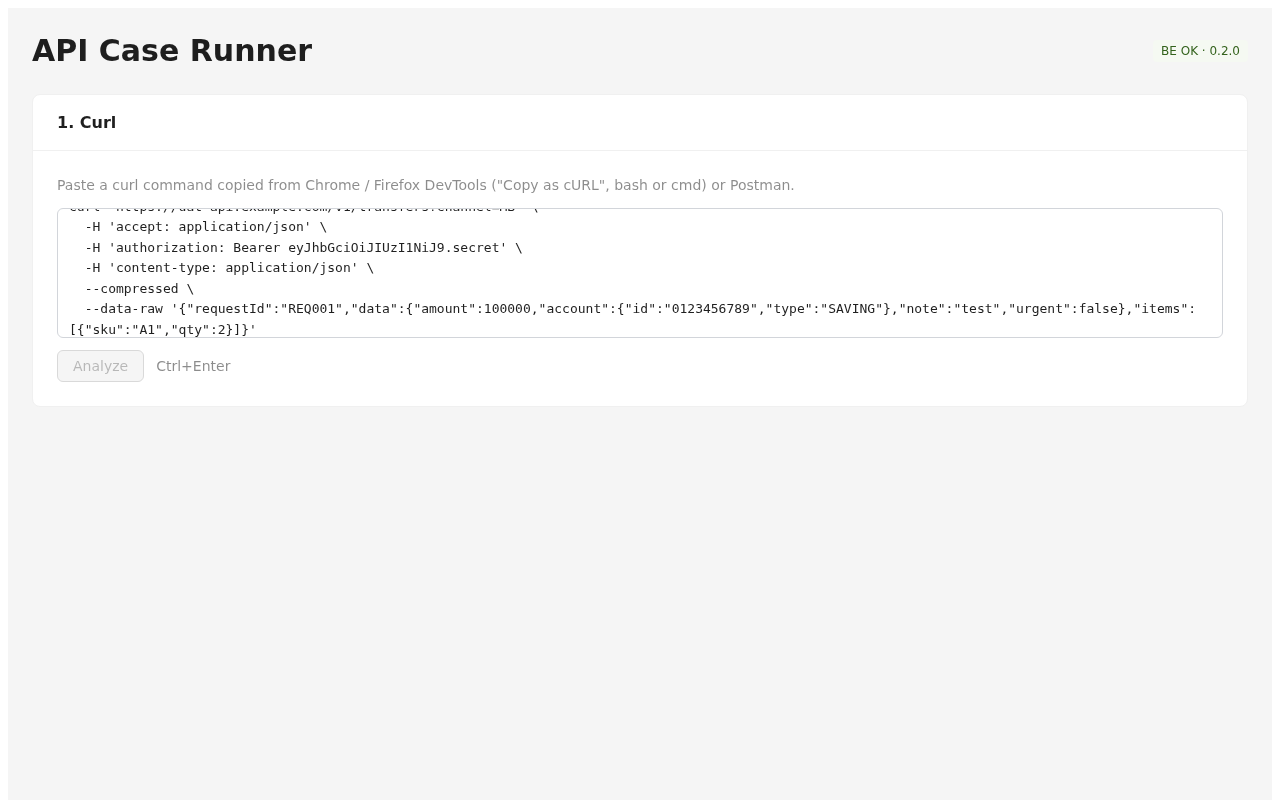
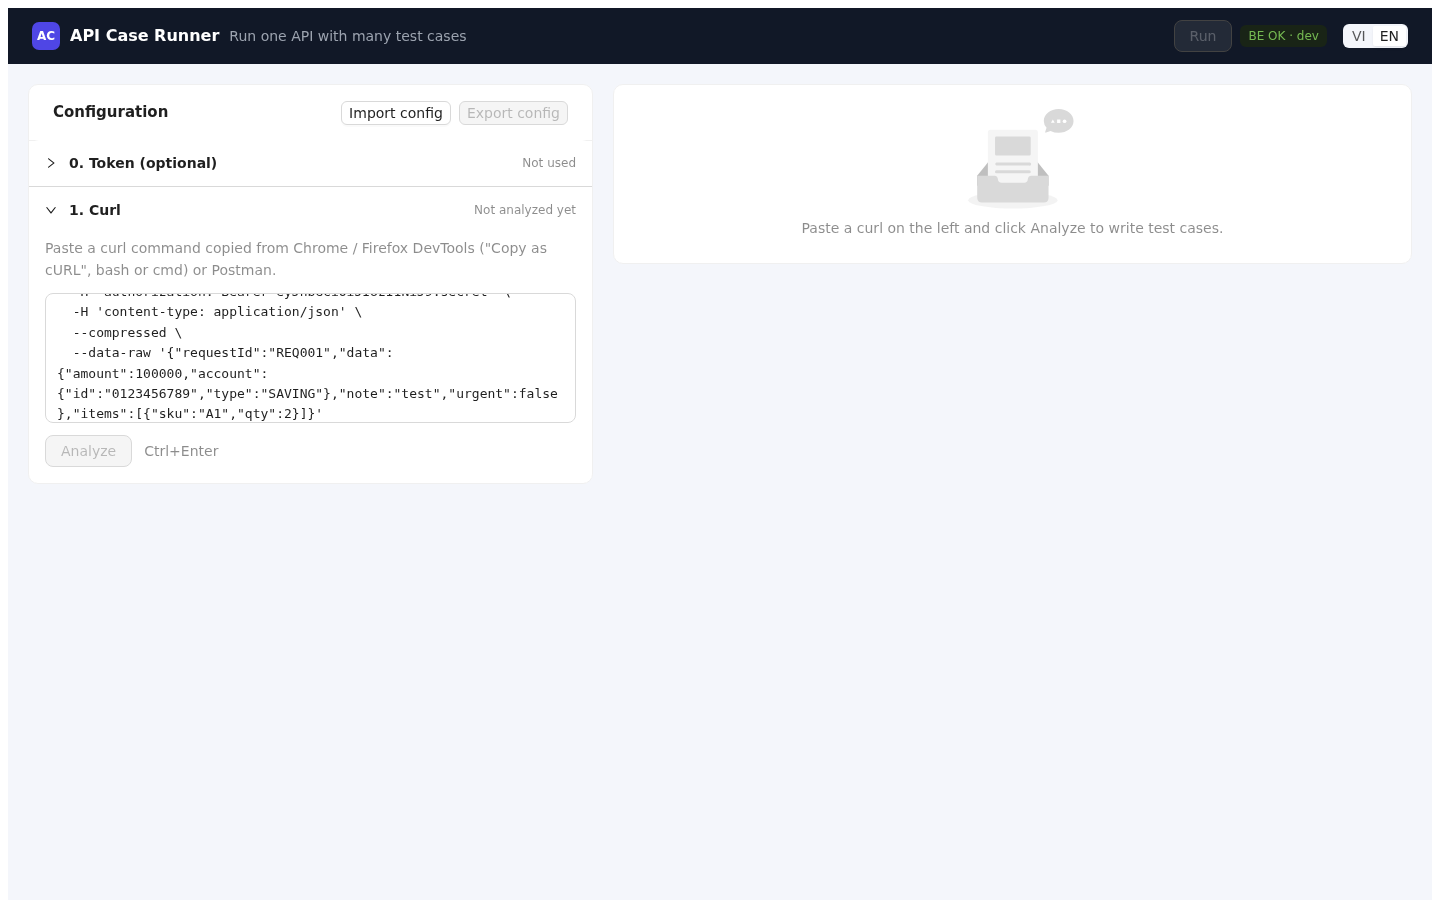
docs: describe the two-column layout and retake the screenshots

diff --git a/docs/brd/BRD-001.vi.md b/docs/brd/BRD-001.vi.md
@@ -17,7 +17,7 @@
 
 | Phiên bản | Ngày | Thay đổi |
 |---|---|---|
-| 0.8 | 2026-10-24 | Đã làm xong Step 4–9 (kế hoạch `PLAN-2026-10-24-no1-run-cases`): bảng case, API chạy run kèm SSE, phần kết quả, mock API. Expect chỉ khớp HTTP status khi bằng đúng nguyên mã, và không tìm trong các header kỹ thuật như `Date` (D14). Thêm mã BLOCKED `UNKNOWN_VARIABLE` (§9); Inject token mà không có capture tên `token` → 400 (§11.3); ô object/array (§9); mã HTTP `RUN_NOT_FOUND`, `TOO_MANY_RUNS` (§15.1); reason hiển thị mã đúng như đã gõ (§12); giao diện như đã làm (§16). |
+| 0.8 | 2026-10-24 | Đã làm xong Step 4–9 (kế hoạch `PLAN-2026-10-24-no1-run-cases`): bảng case, API chạy run kèm SSE, phần kết quả, mock API. Expect chỉ khớp HTTP status khi bằng đúng nguyên mã, và không tìm trong các header kỹ thuật như `Date` (D14). Thêm mã BLOCKED `UNKNOWN_VARIABLE` (§9); Inject token mà không có capture tên `token` → 400 (§11.3); ô object/array (§9); mã HTTP `RUN_NOT_FOUND`, `TOO_MANY_RUNS` (§15.1); reason hiển thị mã đúng như đã gõ (§12); giao diện như đã làm, bố cục hai cột (§16). |
 | 0.7 | 2026-10-24 | **Định nghĩa lại pass/fail**: mỗi case có một chuỗi **expect** bắt buộc, case là `SUCCESS` khi chuỗi đó xuất hiện ở bất kỳ đâu trong response; bỏ cột `PASS`/`FAIL` và quy tắc 2xx (D14, D15, §12). **Bước chuẩn bị tuỳ chọn** để lấy token: các curl chạy trước mỗi case, token được bắt từ response và gắn vào curl chính (D20, D21, §11.3). **Giao diện tiếng Việt và tiếng Anh** (D22). Thêm Step 3b: phần bước chuẩn bị, `POST /api/prepare/try`, HTTP sender gửi đi và allowlist host. |
 | 0.6 | 2026-10-24 | Đổi tên service từ CurlCase thành **API Case Runner** để tester nhìn là biết công dụng: module và thư mục `caserunner`, binary `caserunner`, tiền tố env `CASERUNNER_` (D17). |
 | 0.5 | 2026-10-24 | Đồng bộ với phần đã làm ở Step 0–3: chi tiết parser curl và mã lỗi (§6), giới hạn khi đọc JSON (§7), bảng mã lỗi API và giới hạn kích thước request (§13, §15), giao diện thực tế (§16), cột tiến độ trong kế hoạch (§18). Chốt cách đóng gói: FE được nhúng vào binary Go (D19, §21). Bản tiếng Việt được dịch lại đầy đủ. |
@@ -779,15 +779,15 @@ Response 200 (kể cả khi một bước lỗi; lỗi nằm trong bước đó)
 
 ## 16. FE (React + TS + Vite + Ant Design)
 
-**Một trang duy nhất**; mỗi phần hiện ra bên dưới phần trước khi tester làm tiếp, nên curl vẫn nhìn thấy trong lúc nhập case. Toàn bộ state giữ trong React (`useReducer` hoặc Zustand; không cần Redux).
+**Một trang duy nhất** chia hai cột: **Cấu hình** bên trái (bước 0–3 là các phần gập/mở, khi gập hiện một dòng tóm tắt; Nhập/Xuất cấu hình ở đầu cột), **Test case** và **Kết quả** bên phải, nên curl luôn trong tầm tay khi nhập case. Dưới 1200 px hai cột xếp chồng. Toàn bộ state giữ trong React (`useReducer` hoặc Zustand; không cần Redux).
 
-**Đầu trang.** Tiêu đề, nút đổi ngôn ngữ **VI / EN** (D22) và tag sức khoẻ backend (`BE OK · <version>`, hoặc `BE down` kèm banner lỗi).
+**Thanh trên** (cố định). Tiêu đề, nút **Chạy** (thành **Huỷ run** khi đang chạy, **Chạy lại** sau đó), số case theo từng trạng thái đã xong, tag sức khoẻ backend (`BE OK · <version>`, hoặc `BE down` kèm banner lỗi) và nút đổi ngôn ngữ **VI / EN** (D22).
 
 **0. Phần Bước chuẩn bị** (tuỳ chọn, ẩn cho tới khi tester bấm **Add token step**): mỗi bước một thẻ có ô curl và nút Analyze riêng, bảng capture (tên biến, path; path trống nghĩa là tự tìm token), và nút xoá. **Try steps** chạy các bước (§15.7) và hiện dưới mỗi bước: trạng thái, mã HTTP, lý do, giá trị bắt được (bị che cho tới khi bật **Show sensitive values**) và response body. Công tắc **Inject token** (mặc định bật) quyết định có đặt `Authorization: Bearer {{token}}` cho request chính hay không.
 
-**1. Phần Curl** (nút **Import config** ở đầu thẻ). `Input.TextArea` (font monospace, cao theo nội dung) + nút **Analyze**; **Ctrl/⌘+Enter** cũng phân tích. Lỗi parse hiện bên dưới dạng *"Cannot use this curl"* kèm message của backend.
+**1. Phần Curl**. `Input.TextArea` (font monospace, cao theo nội dung) + nút **Analyze**; **Ctrl/⌘+Enter** cũng phân tích. Lỗi parse hiện bên dưới dạng *"Cannot use this curl"* kèm message của backend.
 
-**2. Phần Request** (hiện bên dưới sau khi Analyze):
+**2. Phần Request** (hiện sau khi Analyze):
 - Tag method + URL (copy được), tag `-k / --insecure` khi có, và loại body (`JSON`, `No body`, `Unsupported`).
 - Banner lỗi *"v1 supports JSON bodies only"* khi loại body là `unsupported`.
 - Danh sách cảnh báo của parser.
@@ -795,19 +795,19 @@ Response 200 (kể cả khi một bước lỗi; lỗi nằm trong bước đó)
 - Liệt kê các placeholder `{{name}}` tìm thấy trong curl chính; placeholder nào không có bước chuẩn bị nào bắt thì được đánh dấu.
 
 **3. Phần Field rules** (chỉ khi body là JSON):
-- `Table` gồm # | Field path | Type (tag màu) | Sample value | Rule (`Select` Required/Unrequired, mặc định Required), kèm nút **All Required** / **All Unrequired** và số đếm mỗi loại rule.
+- `Table` gồm Field path | Type (tag màu) | Sample value | Rule (`Select` Required/Unrequired, mặc định Required), kèm nút **All Required** / **All Unrequired** và số đếm mỗi loại rule.
 - Analyze lại thì mỗi field path còn tồn tại giữ nguyên rule cũ; path mới bắt đầu là Required.
 
-**4. Phần Test case** (chỉ khi body là JSON; nút **Export config** ở đầu thẻ):
+**4. Phần Test case** (cột phải, chỉ khi body là JSON):
 - **Bảng case** (§8): sau khi Analyze có sẵn một dòng điền mẫu, **`+ Thêm case`** để thêm, Nhân bản / Xoá từng dòng; ô `expect` bắt buộc; phân trang 50 dòng.
 - Kiểm tra trước ở FE: ô Required hoặc expect trống được tô đỏ kèm tooltip (D4, D15), và một dòng đếm số case sẽ bị chặn. Vẫn cho chạy, sau khi xác nhận *"X case sẽ bị chặn"*.
 - Tuỳ chọn run: số request song song (1–20; cố định 1 khi có bước lấy token, D21), timeout (1–120 giây).
-- Nút **Chạy**. **Export config** lưu `{version:1, prepare, curl, rules, cases, options}` (không bao giờ lưu giá trị đã bắt); **Import config** nạp lại và Analyze lại các curl.
+- Nút **Chạy** nằm trên thanh trên. **Export config** lưu `{version:1, prepare, curl, rules, cases, options}` (không bao giờ lưu giá trị đã bắt); **Import config** nạp lại và Analyze lại các curl.
 
-**5. Phần Kết quả** (hiện bên dưới sau khi chạy):
-- Các tag đếm (Tổng / SUCCESS xanh lá / FAILED đỏ / EXCEPTION cam / BLOCKED / CANCELLED) và thanh `Progress`; kết quả về dần từng case qua SSE.
+**5. Phần Kết quả** (dưới bảng case; trống cho tới lần chạy đầu):
+- Thanh `Progress` (đã xong / tổng) và bộ lọc trạng thái kèm số đếm (SUCCESS xanh lá / FAILED đỏ / EXCEPTION cam / BLOCKED / CANCELLED); kết quả về dần từng case qua SSE.
 - `Table` sắp theo số case: #, Tên, Expect, HTTP, Trạng thái (`Tag` màu), Thời gian, Lý do; có bộ lọc theo trạng thái. Bấm một dòng mở `Drawer` với trạng thái, lý do, nơi tìm thấy mã, các giá trị đã gửi, request body và response body có tô sáng mã expect.
-- **Huỷ run** khi đang chạy, **Chạy lại** sau đó (giữ cấu hình; thay phần kết quả cũ).
+- **Huỷ run** khi đang chạy, **Chạy lại** sau đó, cả hai trên thanh trên (giữ cấu hình; thay kết quả cũ).
 - Ghi chú cố định: kết quả chỉ được giữ trong bộ nhớ một thời gian (mặc định 1 giờ) và mất khi tool khởi động lại. Xuất Excel/PDF có ở Step 10.
 
 ---

diff --git a/docs/brd/BRD-001.md b/docs/brd/BRD-001.md
@@ -17,7 +17,7 @@
 
 | Version | Date | Change |
 |---|---|---|
-| 0.8 | 2026-10-24 | Steps 4–9 implemented (plan `PLAN-2026-10-24-no1-run-cases`): case table, runs API with SSE, results panel, mock API. Expect matches the HTTP status only as the whole code, and transport headers such as `Date` are not searched (D14). New BLOCKED code `UNKNOWN_VARIABLE` (§9); Inject token without a capture named `token` → 400 (§11.3); object/array cells (§9); HTTP codes `RUN_NOT_FOUND`, `TOO_MANY_RUNS` (§15.1); reasons show the code as typed (§12); UI panels as built (§16). |
+| 0.8 | 2026-10-24 | Steps 4–9 implemented (plan `PLAN-2026-10-24-no1-run-cases`): case table, runs API with SSE, results panel, mock API. Expect matches the HTTP status only as the whole code, and transport headers such as `Date` are not searched (D14). New BLOCKED code `UNKNOWN_VARIABLE` (§9); Inject token without a capture named `token` → 400 (§11.3); object/array cells (§9); HTTP codes `RUN_NOT_FOUND`, `TOO_MANY_RUNS` (§15.1); reasons show the code as typed (§12); UI panels as built, in a two-column layout (§16). |
 | 0.7 | 2026-10-24 | **Pass/fail redefined**: each case has a required **expect** string, and the case is `SUCCESS` when that string occurs anywhere in the response; the `PASS`/`FAIL` column and the 2xx rule are removed (D14, D15, §12). **Optional prepare steps** obtain a token: curls run before each case, a token is captured from the response and injected into the main curl (D20, D21, §11.3). **UI in Vietnamese and English** (D22). New Step 3b: prepare panel, `POST /api/prepare/try`, outgoing HTTP sender and host allowlist. |
 | 0.6 | 2026-10-24 | Renamed the service from CurlCase to **API Case Runner** so testers recognize its purpose: module and directory `caserunner`, binary `caserunner`, env prefix `CASERUNNER_` (D17). |
 | 0.5 | 2026-10-24 | Synced with the implementation of Steps 0–3: curl parser details and error codes (§6), JSON decoding limits (§7), API error catalog and request size limit (§13, §15), the UI as built (§16), progress column in the plan (§18). Packaging decided: the frontend is embedded in the Go binary (D19, §21). Vietnamese translation brought up to date. |
@@ -779,15 +779,15 @@ Response 200 (also when a step fails; the failure is in the step):
 
 ## 16. FE (React + TS + Vite + Ant Design)
 
-A **single page**; each panel appears below the previous one as the tester moves on, so the curl stays visible while cases are entered. All state is kept in React (`useReducer` or Zustand; no Redux needed).
+A **single page** in two columns: **Configuration** on the left (steps 0–3 as collapsible sections, each showing a one-line summary when closed; Import/Export config at its top), **Test cases** and **Results** on the right, so the curl stays reachable while cases are entered. Under 1200 px the columns stack. All state is kept in React (`useReducer` or Zustand; no Redux needed).
 
-**Header.** The title, a **VI / EN** language switch (D22) and a backend health tag (`BE OK · <version>`, or `BE down` with an error banner).
+**Top bar** (fixed). The title, the **Run** button (**Cancel run** while running, **Run again** afterwards), counts of the finished statuses, a backend health tag (`BE OK · <version>`, or `BE down` with an error banner) and a **VI / EN** language switch (D22).
 
 **0. Prepare steps panel** (optional, collapsed until the tester clicks **Add token step**): one card per step with its own curl box and Analyze, a captures table (variable name, path; an empty path means automatic token search), and remove. **Try steps** runs them (§15.7) and shows under each step its status, HTTP code, reason, the captured values (masked until **Show sensitive values**) and the response body. An **Inject token** switch (on by default) controls whether `Authorization: Bearer {{token}}` is set on the main request.
 
-**1. Curl panel** (header button **Import config**). `Input.TextArea` (monospace, grows with its content) + an **Analyze** button; **Ctrl/⌘+Enter** also analyzes. A parse error is shown under it as *"Cannot use this curl"* with the backend message.
+**1. Curl panel**. `Input.TextArea` (monospace, grows with its content) + an **Analyze** button; **Ctrl/⌘+Enter** also analyzes. A parse error is shown under it as *"Cannot use this curl"* with the backend message.
 
-**2. Request panel** (appears below after Analyze):
+**2. Request panel** (appears after Analyze):
 - Method tag + URL (copyable), a `-k / --insecure` tag when present, and the body kind (`JSON`, `No body`, `Unsupported`).
 - An error banner *"v1 supports JSON bodies only"* when the body kind is `unsupported`.
 - The parser's warnings as a list.
@@ -795,19 +795,19 @@ A **single page**; each panel appears below the previous one as the tester moves
 - `{{name}}` placeholders found in the main curl are listed; one that no prepare step captures is flagged.
 
 **3. Field rules panel** (only for a JSON body):
-- `Table` with # | Field path | Type (colored tag) | Sample value | Rule (`Select` Required/Unrequired, default Required), plus **All Required** / **All Unrequired** buttons and a count of each rule.
+- `Table` with Field path | Type (colored tag) | Sample value | Rule (`Select` Required/Unrequired, default Required), plus **All Required** / **All Unrequired** buttons and a count of each rule.
 - Analyzing again keeps the rule of every field path that still exists; new paths start as Required.
 
-**4. Test cases panel** (only for a JSON body; header button **Export config**):
+**4. Test cases panel** (right column, only for a JSON body):
 - **Case table** (§8): one pre-filled row after Analyze, **`+ Add case`** for more, Duplicate / Delete per row; the `expect` cell is required; paginated by 50 rows.
 - FE pre-validation: an empty Required cell or expect is highlighted red with a tooltip (D4, D15), and a line counts the cases that will be blocked. Running is still allowed, after the confirmation *"X case(s) will be blocked"*.
 - Run options: parallel requests (1–20; fixed at 1 with token steps, D21), timeout (1–120 seconds).
-- **Run** button. **Export config** saves `{version:1, prepare, curl, rules, cases, options}` (never captured values); **Import config** restores it and analyzes the curls again.
+- **Run** is in the top bar. **Export config** saves `{version:1, prepare, curl, rules, cases, options}` (never captured values); **Import config** restores it and analyzes the curls again.
 
-**5. Results panel** (appears below after Run):
-- Tags with counts (Total / SUCCESS green / FAILED red / EXCEPTION orange / BLOCKED / CANCELLED) and a `Progress` bar; results arrive one by one over SSE.
+**5. Results panel** (below the case table; empty until the first run):
+- A `Progress` bar (finished / total) and a status filter with counts (SUCCESS green / FAILED red / EXCEPTION orange / BLOCKED / CANCELLED); results arrive one by one over SSE.
 - `Table` sorted by case number: #, Name, Expect, HTTP, Status (colored `Tag`), Duration, Reason; a status filter. Clicking a row opens a `Drawer` with the status, reason, where the code was found, the values sent, the request body and the response body with the expect code highlighted.
-- **Cancel run** while running, **Run again** afterwards (same configuration; replaces the panel).
+- **Cancel run** while running, **Run again** afterwards, both in the top bar (same configuration; replaces the results).
 - Persistent note: results are kept in memory for a limited time (1 hour by default) and lost when the tool restarts. Excel/PDF export comes with Step 10.
 
 ---

diff --git a/docs/user-guide.md b/docs/user-guide.md
@@ -37,7 +37,15 @@ When `listening` appears, open **http://127.0.0.1:8080** in a browser. Leave the
 
 If a developer hands you a ready-built program (`caserunner.exe` on Windows), you only need this last step.
 
-The tag at the top right of the page shows **BE OK** and the version when the tool is ready. The **VI / EN** switch next to it changes the language of the page; your choice is remembered.
+The page has a dark top bar and two columns:
+
+- **Top bar**: the **Run** button (it becomes **Cancel run** while a run is in progress, and **Run again** afterwards), a count of each result status, the **BE OK** tag with the version when the tool is ready, and the **VI / EN** switch, which changes the language and is remembered.
+- **Left, Configuration**: the steps that describe the request, **0. Token**, **1. Curl**, **2. Request** and **3. Field rules**. Click a title to open or close it; a closed step shows a one-line summary on the right, such as *POST https://…* or *5 fields · 4 Required*. **Import config** and **Export config** are at the top of this column.
+- **Right**: **4. Test cases** and, below it, **5. Results**.
+
+On a narrow window (under 1200 pixels) the right column moves below the left one.
+
+![The whole page after a run](images/09-overview.png)
 
 | Want to | Windows (PowerShell) | Linux / macOS / WSL |
 |---|---|---|
@@ -117,7 +125,7 @@ When cases run, the token steps run again **before every case**, so every case g
 
 ## 7. Write and run test cases
 
-**4. Test cases** appears below the field rules when the body is JSON. It has one column per field, plus **Case name** and **Expect**. After Analyze it already holds one row filled with the values from your curl.
+**4. Test cases** appears in the right column when the body is JSON. It has one column per field, plus **Case name** and **Expect**. After Analyze it already holds one row filled with the values from your curl.
 
 ![The case table with four cases](images/06-test-cases.png)
 
@@ -153,7 +161,7 @@ An empty Required cell or Expect is outlined in red, with the reason on hover, a
 | **Parallel requests** | How many cases are sent at the same time (1–20, default 5). With token steps it is fixed at 1: cases run one at a time, each after its own token steps. |
 | **Timeout (seconds)** | How long to wait for each answer (1–120, default 30). A case that waits longer ends as EXCEPTION. |
 
-Click **Run**. **5. Results** appears and fills in as cases finish, without reloading the page:
+Click **Run** in the top bar. **5. Results** fills in as cases finish, without reloading the page:
 
 ![Results of a run](images/07-results.png)
 
@@ -165,17 +173,17 @@ Click **Run**. **5. Results** appears and fills in as cases finish, without relo
 | **BLOCKED** | The case was not sent because a Required cell or the expect was empty, or a value did not fit its type. |
 | **CANCELLED** | You cancelled the run before this case was sent. |
 
-The tags at the top count each status; click a status above the table to show only those cases. **Reason** says why, e.g. *Found "code":"00" in the body (HTTP 200)* or *ERR_X not found in the response (HTTP 200)*.
+The progress bar shows finished cases out of the total, and the top bar counts each status; click a status above the table to show only those cases. **Reason** says why, e.g. *Found "code":"00" in the body (HTTP 200)* or *ERR_X not found in the response (HTTP 200)*.
 
 Click a row to see the details: where the code was found, the values sent, the request body exactly as sent and the response body with the expect code highlighted.
 
 ![Details of one case](images/08-case-detail.png)
 
-**Cancel run** stops a run: cases not yet sent become CANCELLED; a case already in flight ends as EXCEPTION. **Run again** sends the same cases again with what is on the page now and replaces the results. Every run really sends requests: run against LOCAL, DEV or UAT only, never production, and never retry a payment case blindly.
+**Cancel run** (top bar) stops a run: cases not yet sent become CANCELLED; a case already in flight ends as EXCEPTION. **Run again** (top bar) sends the same cases again with what is on the page now and replaces the results. Every run really sends requests: run against LOCAL, DEV or UAT only, never production, and never retry a payment case blindly.
 
 Results are kept in the tool's memory for 1 hour after the run (by default) and are lost when the tool restarts.
 
-**Save your work**: **Export config** (on **4. Test cases**) downloads a `.json` file with the token steps, the curl, the rules, the cases and the run options. Captured token values are never saved, but the curls are saved as you pasted them, including their own `Authorization` headers: keep the file private. **Import config** (on **1. Curl**) loads such a file back and analyzes the curls again.
+**Save your work**: **Export config** (top of **Configuration**) downloads a `.json` file with the token steps, the curl, the rules, the cases and the run options. Captured token values are never saved, but the curls are saved as you pasted them, including their own `Authorization` headers: keep the file private. **Import config** (next to it) loads such a file back and analyzes the curls again.
 
 ## 8. When the curl cannot be used
 

diff --git a/README.md b/README.md
@@ -2,7 +2,7 @@
 
 **API Case Runner** is a tool for testers: paste one API request as a `curl` command, list many test cases for it in a table, fire them against the API and get a result per case — without writing code.
 
-![API Case Runner: the request and the field rules of a pasted curl](docs/images/02-request-and-fields.png)
+![API Case Runner: configuration on the left, test cases and live results on the right](docs/images/09-overview.png)
 
 ## Features
 
